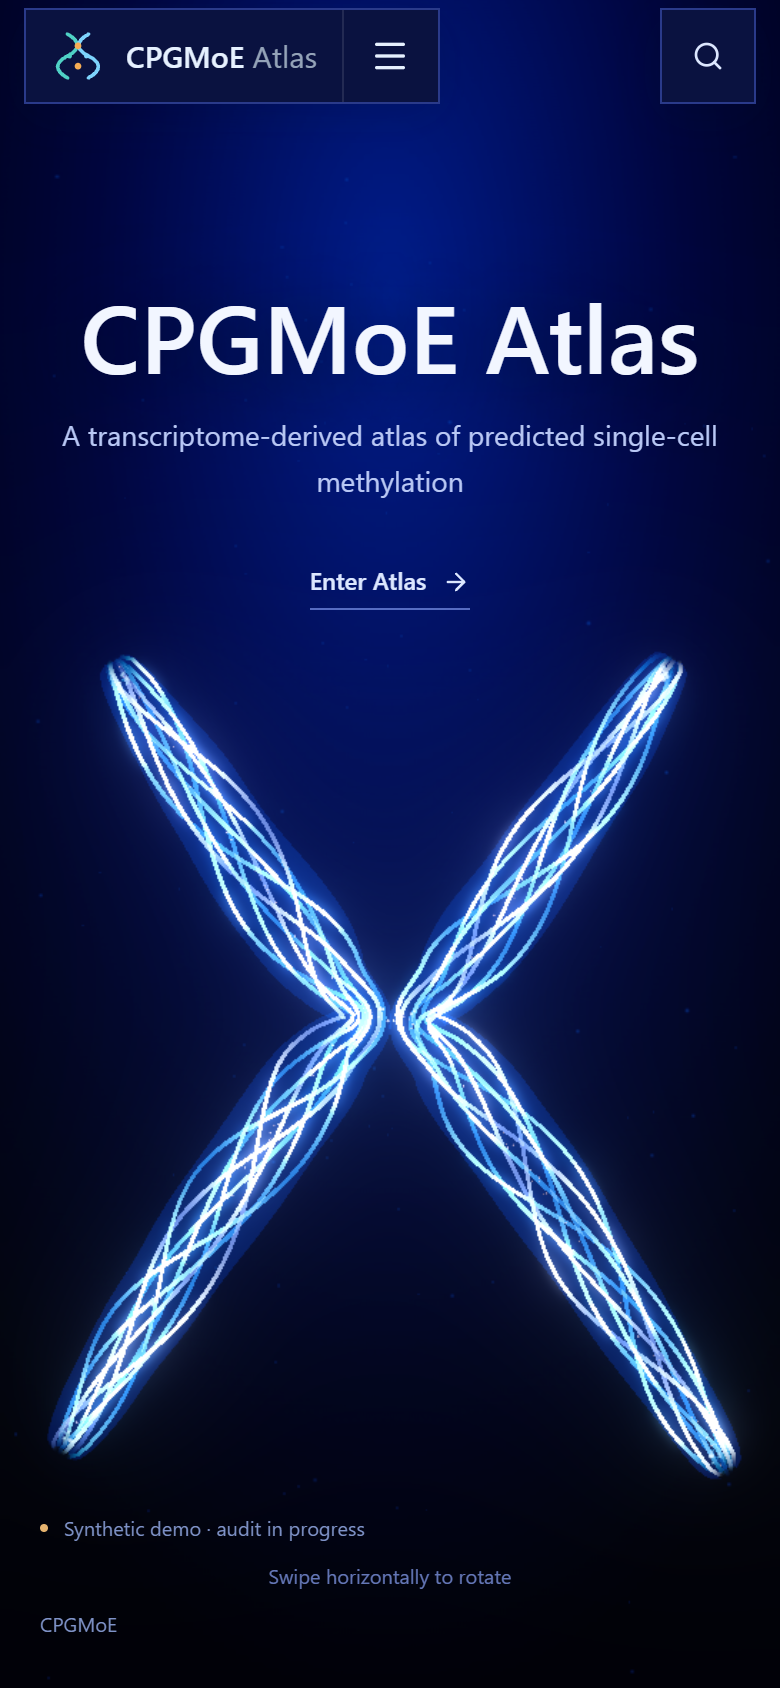
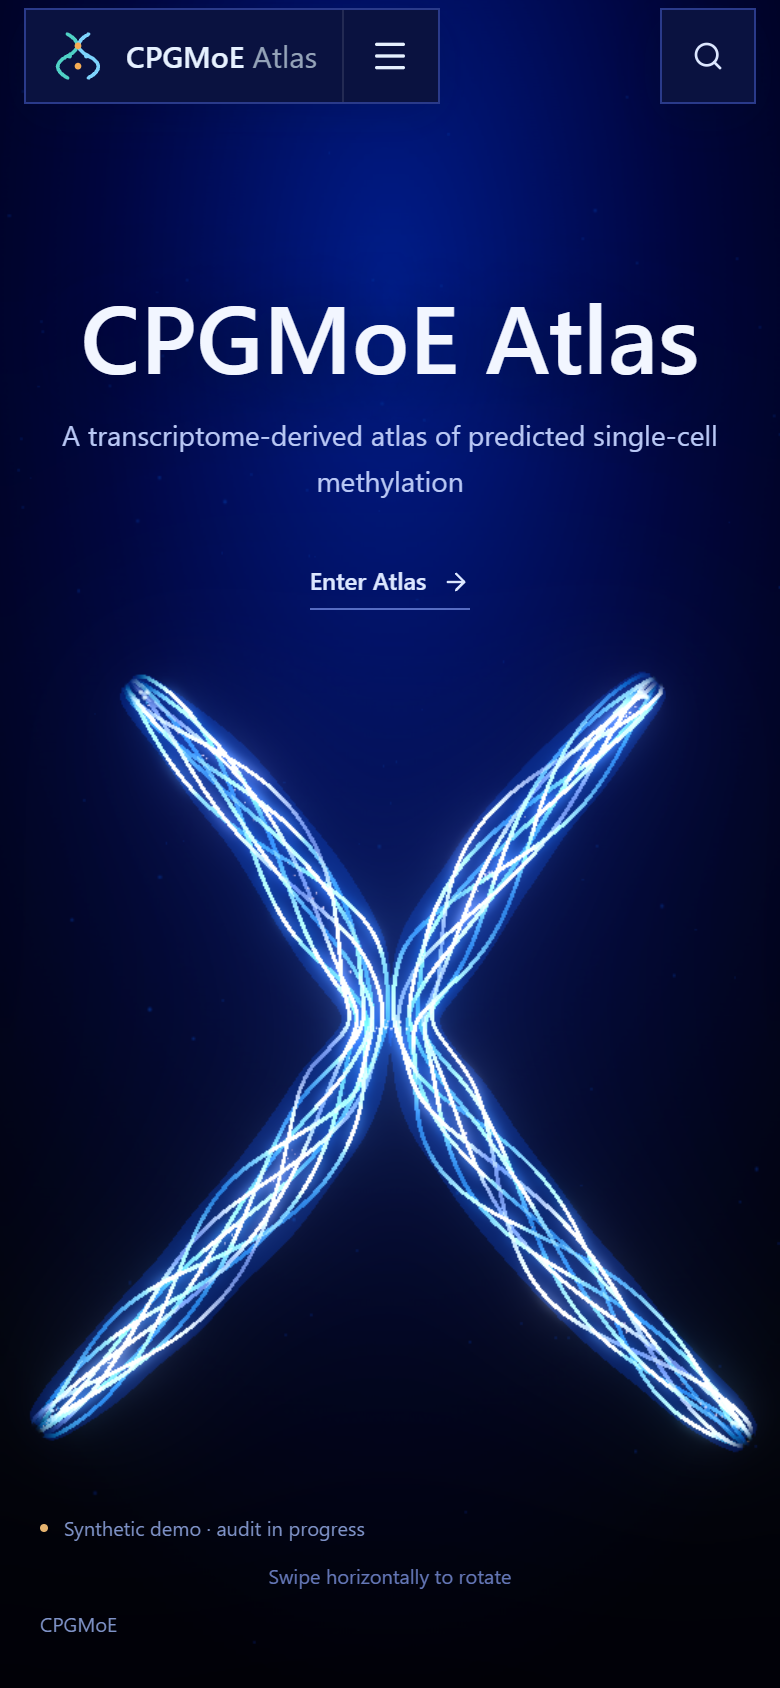
Bow the chromatid arms so the pair curves like a chromosome
Arms now leave the centromere almost parallel to the axis and flare out with
an outward curve instead of running straight, matching the classic bowed
chromosome silhouette.

Changed region(s): [[0.0308, 0.3697, 0.9846, 0.8934]]

diff --git a/src/components/home/cinematic-canvas.tsx b/src/components/home/cinematic-canvas.tsx
@@ -191,15 +191,16 @@ const CENTROMERE_T = 0.44;
 // constriction, splayed apart in depth so the pair reads as a 3D structure.
 function chromatidPath(side: number): THREE.Vector3[] {
   const samples = [
-    0, 0.08, 0.16, 0.24, 0.32, 0.39, CENTROMERE_T, 0.49, 0.56, 0.64, 0.72,
-    0.8, 0.88, 0.94, 1,
+    0, 0.06, 0.12, 0.18, 0.25, 0.32, 0.38, CENTROMERE_T, 0.5, 0.56, 0.63, 0.7,
+    0.78, 0.86, 0.93, 1,
   ];
   return samples.map((u) => {
     const d = u - CENTROMERE_T;
-    const spread = 0.14 + 3.0 * Math.pow(Math.abs(d), 0.95);
-    const bow = Math.sin(Math.abs(d) * Math.PI * 1.7) * 0.03;
+    // Arms leave the centromere almost parallel to the axis and then flare
+    // outward, which is what gives the chromatid pair its bowed shape.
+    const spread = 0.13 + 4.64 * Math.pow(Math.abs(d), 1.45);
     return new THREE.Vector3(
-      side * (spread + bow),
+      side * spread,
       -d * 4.6,
       side * (0.08 + 0.62 * Math.abs(d)) + Math.sin(u * Math.PI * 2) * 0.04,
     );
@@ -608,7 +609,7 @@ export function CinematicCanvas() {
       bridge,
     );
     chromosome.position.y = -1.1;
-    chromosome.scale.setScalar(1);
+    chromosome.scale.setScalar(0.94);
     scene.add(chromosome);
 
     const halo = new THREE.Sprite(
